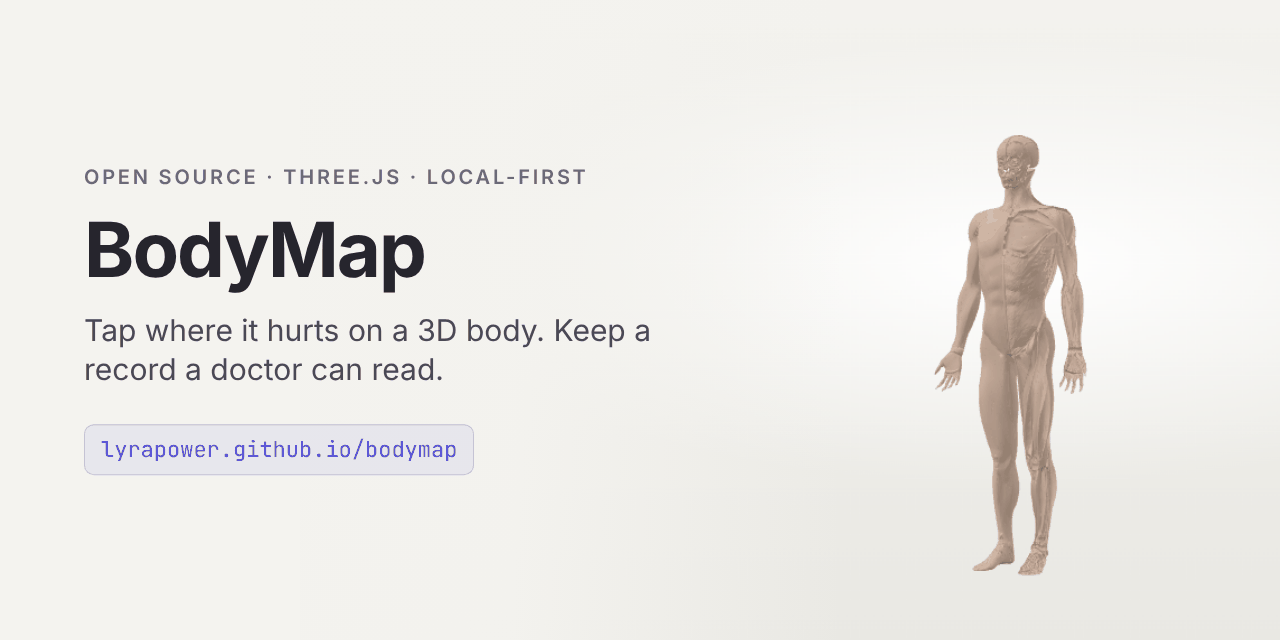
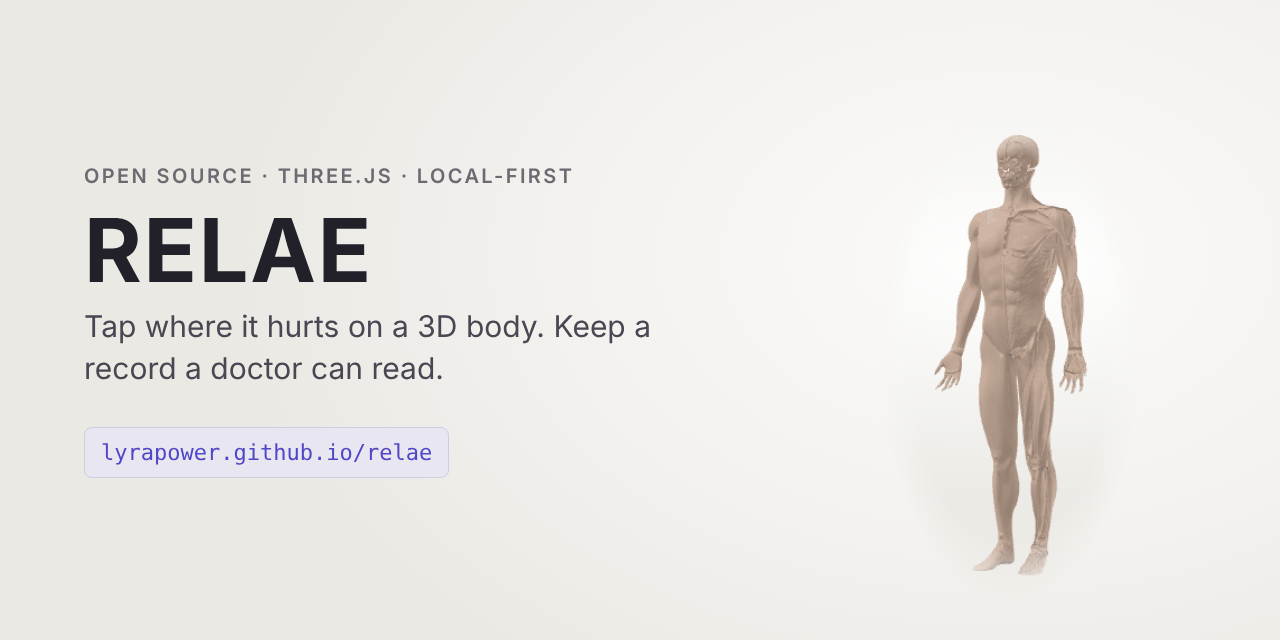
Rename to RELAE
Product name, page title, Open Graph tags, README, schema titles, UI
strings and the Pages URL now say RELAE (lyrapower.github.io/relae/).
Storage keys (IndexedDB "bodymap", localStorage "bodymap.*") and the
backup format id "bodymap-backup" are unchanged on purpose, so records
already saved on a device and existing backup files keep working.

diff --git a/app/index.html b/app/index.html
@@ -6,13 +6,13 @@
     <meta name="theme-color" content="#f4f3ef" />
     <meta name="apple-mobile-web-app-capable" content="yes" />
     <meta name="apple-mobile-web-app-status-bar-style" content="default" />
-    <title>BodyMap</title>
+    <title>RELAE</title>
     <meta name="description" content="Tap where it hurts on a 3D body and keep a record a clinician can read. Records stay on your device: no account, no server." />
     <meta property="og:type" content="website" />
-    <meta property="og:title" content="BodyMap" />
+    <meta property="og:title" content="RELAE" />
     <meta property="og:description" content="Tap where it hurts on a 3D body and keep a record a clinician can read. Records stay on your device." />
-    <meta property="og:url" content="https://lyrapower.github.io/bodymap/" />
-    <meta property="og:image" content="https://lyrapower.github.io/bodymap/og.png" />
+    <meta property="og:url" content="https://lyrapower.github.io/relae/" />
+    <meta property="og:image" content="https://lyrapower.github.io/relae/og.png" />
     <meta name="twitter:card" content="summary_large_image" />
     <link rel="icon" href="data:," />
   </head>

diff --git a/README.md b/README.md
@@ -1,13 +1,13 @@
-# BodyMap — tap where it hurts on a 3D body, keep a record a doctor can read
+# RELAE — tap where it hurts on a 3D body, keep a record a doctor can read
 
-[![CI](https://github.com/Lyrapower/bodymap/actions/workflows/ci.yml/badge.svg)](https://github.com/Lyrapower/bodymap/actions/workflows/ci.yml) [![DCO](https://github.com/Lyrapower/bodymap/actions/workflows/dco.yml/badge.svg)](https://github.com/Lyrapower/bodymap/actions/workflows/dco.yml)
+[![CI](https://github.com/Lyrapower/relae/actions/workflows/ci.yml/badge.svg)](https://github.com/Lyrapower/relae/actions/workflows/ci.yml) [![DCO](https://github.com/Lyrapower/relae/actions/workflows/dco.yml/badge.svg)](https://github.com/Lyrapower/relae/actions/workflows/dco.yml)
 
-**[▶ Open the live demo](https://lyrapower.github.io/bodymap/)** (best on a phone) · records never leave your device. If it helps you or someone you care for, a ⭐ helps other people find it.
+**[▶ Open the live demo](https://lyrapower.github.io/relae/)** (best on a phone) · records never leave your device. If it helps you or someone you care for, a ⭐ helps other people find it.
 
 <p align="center"><img src="docs/demo.gif" width="300" alt="Turning the 3D body, tapping the left shoulder to mark it, then switching to the muscle layer" /></p>
 
 ```
-git clone https://github.com/Lyrapower/bodymap && cd bodymap/app
+git clone https://github.com/Lyrapower/relae && cd relae/app
 npm install
 npm run dev -- --host      # open the printed Network address on your phone
 ```
@@ -17,9 +17,9 @@ npm run dev -- --host      # open the printed Network address on your phone
 
 ## Why
 
-Pain is hard to put into words, and harder to remember accurately a week later in a doctor's office. BodyMap lets you tap the spot on a 3D body, say what it feels like and how long it lasted. Over weeks the records become something a clinician can read in one page, and something you can look back on yourself.
+Pain is hard to put into words, and harder to remember accurately a week later in a doctor's office. RELAE lets you tap the spot on a 3D body, say what it feels like and how long it lasted. Over weeks the records become something a clinician can read in one page, and something you can look back on yourself.
 
-*A record, not a diagnosis.* 这是记录，不是诊断。 BodyMap does not diagnose and is not a medical device.
+*A record, not a diagnosis.* 这是记录，不是诊断。 RELAE does not diagnose and is not a medical device.
 
 **Who it is for:** people who find pain hard to put into words. Children and older people. People living with something long-term. People who see doctors rarely and don't know which door. Anyone who has been told "we can't find anything" and knows it is still real.
 
@@ -90,7 +90,7 @@ Records are plain JSON. See [`core/schema/README.md`](core/schema/README.md). Th
 
 ## Contributing
 
-Issues and pull requests are welcome; issues labelled [`good first issue`](https://github.com/Lyrapower/bodymap/labels/good%20first%20issue) are small and self-contained. Please read [CONTRIBUTING.md](CONTRIBUTING.md) first: every commit is signed off (DCO), and two rules are not negotiable (it records, it never judges; records are points, never interpolated).
+Issues and pull requests are welcome; issues labelled [`good first issue`](https://github.com/Lyrapower/relae/labels/good%20first%20issue) are small and self-contained. Please read [CONTRIBUTING.md](CONTRIBUTING.md) first: every commit is signed off (DCO), and two rules are not negotiable (it records, it never judges; records are points, never interpolated).
 
 ## License
 
